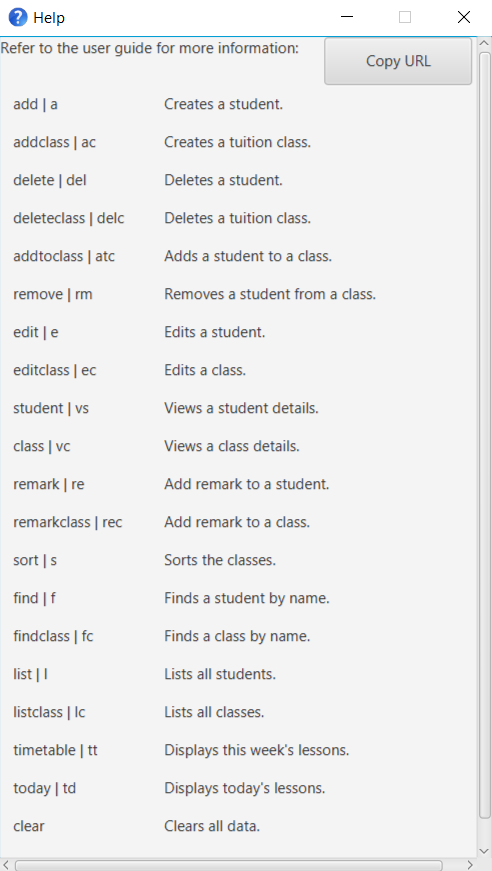
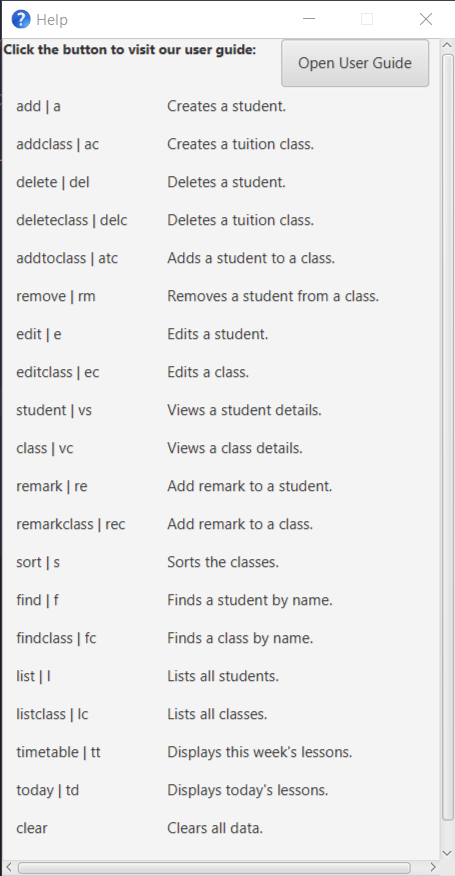
Update HelpCommand
Instead of copying the url, the button now opens the user guide
in the user's browser.

diff --git a/src/main/java/seedu/address/commons/core/Browser.java b/src/main/java/seedu/address/commons/core/Browser.java
@@ -1,0 +1,58 @@
+package seedu.address.commons.core;
+
+import java.awt.Desktop;
+import java.awt.GraphicsEnvironment;
+import java.io.IOException;
+import java.net.URI;
+import java.net.URISyntaxException;
+import java.util.logging.Logger;
+
+/**
+ * Represents the user's browser to open url links.
+ */
+public class Browser {
+    private static Logger logger = LogsCenter.getLogger(Browser.class);
+
+    /**
+     * Opens URL inside user's Desktop Browser.
+     * Assume running platform supports desktop. Use {@link #isDisplayAndBrowseCompatible()} to check.
+     * No validity checks of valid url.
+     *
+     * @param url
+     */
+    public static void openUrl(String url) {
+        if (!isDisplayAndBrowseCompatible()) {
+            return;
+        }
+
+        Desktop d = Desktop.getDesktop();
+
+        logger.info("Opening URL in browser: " + url + "...");
+
+        try {
+            d.browse(new URI(url));
+        } catch (URISyntaxException | IOException e) {
+            logger.severe("Unable to open URL in user browser" + e.getMessage());
+            e.printStackTrace();
+        }
+    }
+
+    /**
+     * Checks if platform running code supports Desktop and Desktop.Action.BROWSE.
+     * Helper function used to verify platform compatibility before calls to {@link #openUrl(String)}
+     */
+    public static boolean isDisplayAndBrowseCompatible() {
+        if (GraphicsEnvironment.isHeadless()) {
+            logger.warning("Platform does not support display.\n GraphicsEnviornment.isHeadless()");
+            return false;
+        }
+
+        Desktop d = Desktop.getDesktop();
+        if (!d.isSupported(Desktop.Action.BROWSE)) {
+            logger.warning("Platform does not support browsing in desktop");
+            return false;
+        }
+
+        return true;
+    }
+}

diff --git a/src/main/java/seedu/address/ui/HelpWindow.java b/src/main/java/seedu/address/ui/HelpWindow.java
@@ -48,9 +48,8 @@ import java.util.logging.Logger;
 import javafx.fxml.FXML;
 import javafx.scene.control.Button;
 import javafx.scene.control.Label;
-import javafx.scene.input.Clipboard;
-import javafx.scene.input.ClipboardContent;
 import javafx.stage.Stage;
+import seedu.address.commons.core.Browser;
 import seedu.address.commons.core.LogsCenter;
 
 /**
@@ -59,13 +58,13 @@ import seedu.address.commons.core.LogsCenter;
 public class HelpWindow extends UiPart<Stage> {
     public static final String USERGUIDE_URL =
             "https://ay2122s1-cs2103t-t12-4.github.io/tp/UserGuide.html#command-summary";
-    public static final String HELP_MESSAGE = "Refer to the user guide for more information:\n";
+    public static final String HELP_MESSAGE = "Click the button to visit our user guide:\n";
 
     private static final Logger logger = LogsCenter.getLogger(HelpWindow.class);
     private static final String FXML = "HelpWindow.fxml";
 
     @FXML
-    private Button copyButton;
+    private Button openButton;
     @FXML
     private Label helpMessage;
 
@@ -258,13 +257,11 @@ public class HelpWindow extends UiPart<Stage> {
     }
 
     /**
-     * Copies the URL to the user guide to the clipboard.
+     * Opens the URL to the user's desktop browser.
      */
     @FXML
-    private void copyUrl() {
-        final Clipboard clipboard = Clipboard.getSystemClipboard();
-        final ClipboardContent url = new ClipboardContent();
-        url.putString(USERGUIDE_URL);
-        clipboard.setContent(url);
+    private void openUserGuide() {
+        Browser.openUrl(USERGUIDE_URL);
     }
+
 }
